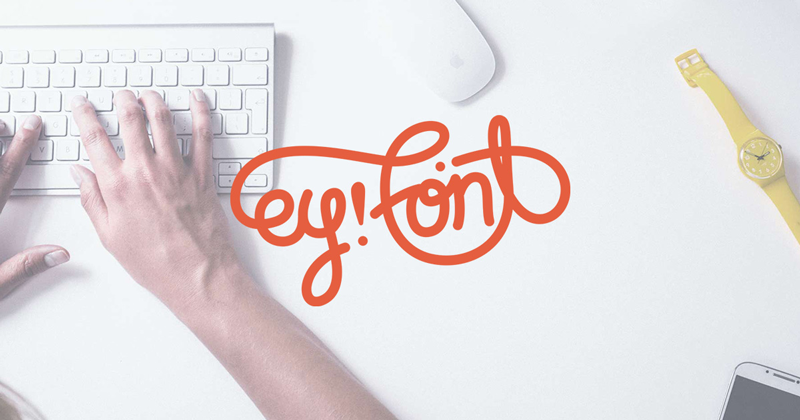
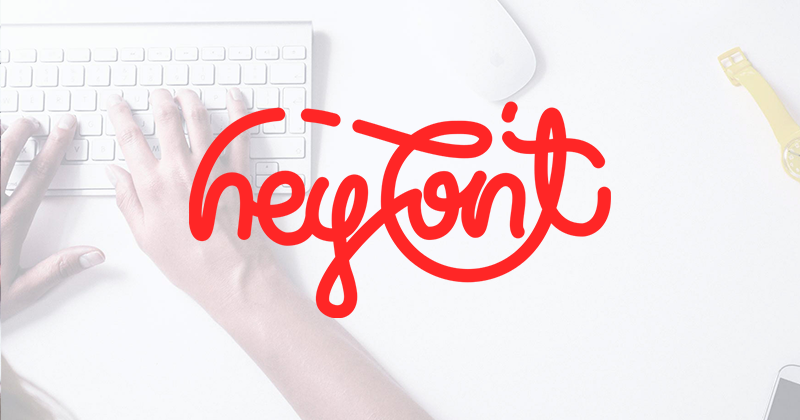
changes

diff --git a/public/demo/metrics.html b/public/demo/metrics.html
@@ -15,7 +15,7 @@
 
 			<section id="rule">
 				<div class="value">
-					<span>16</span>px
+					<span id="numbers">16</span>px
 				</div>
 				<input type="range" min="2" max="100"  />
 			</section>
@@ -47,7 +47,7 @@
 				 $('input').on('change', function () {
 				    var v = $(this).val();
 				    $('#textchange').css('font-size', v + 'px')
-				    $('span').html(v);
+				    $('span#numbers').html(v);
 				});
 			</script>
 

diff --git a/public/index.html b/public/index.html
@@ -74,7 +74,7 @@
 
 		<div id="preloader">
 		   <div id="status">
-		   		<img src="assets/load.gif"/>
+		   		<img src=""/>
 		   </div>
 		 </div><!-- Preloader -->
 
@@ -97,7 +97,7 @@
 
 		<section id="home">
 			<div class="logo">
-				<img src="assets/eyfont.png">
+				<img src="assets/heyfont.png">
 			</div>
 			<p>
 				<h1>The easy way to preview your google fonts</h1>
